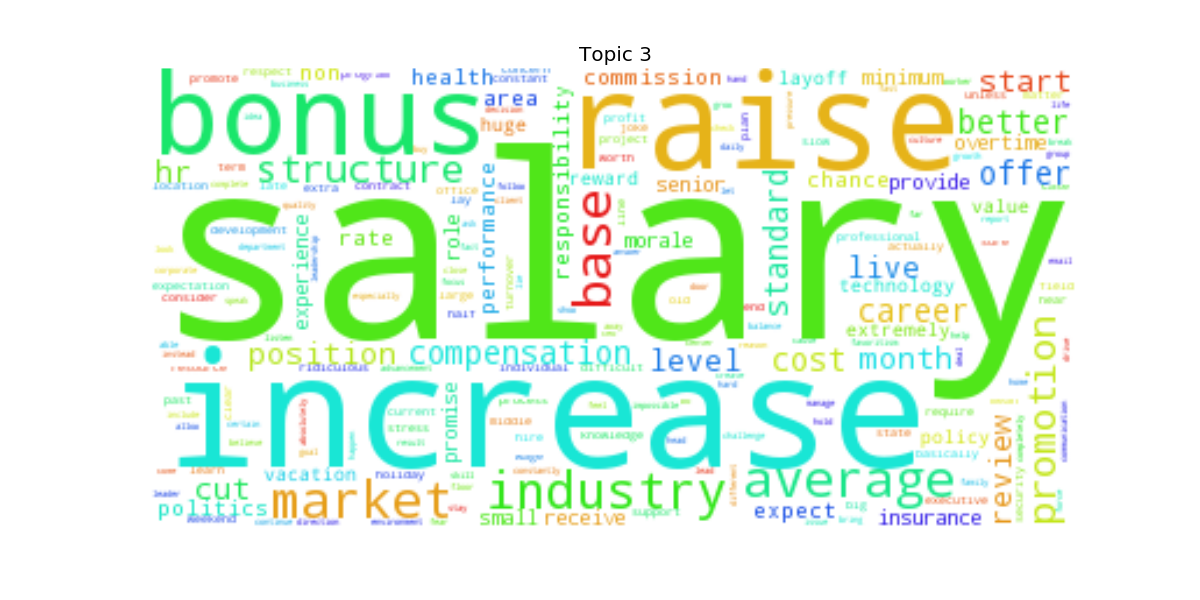
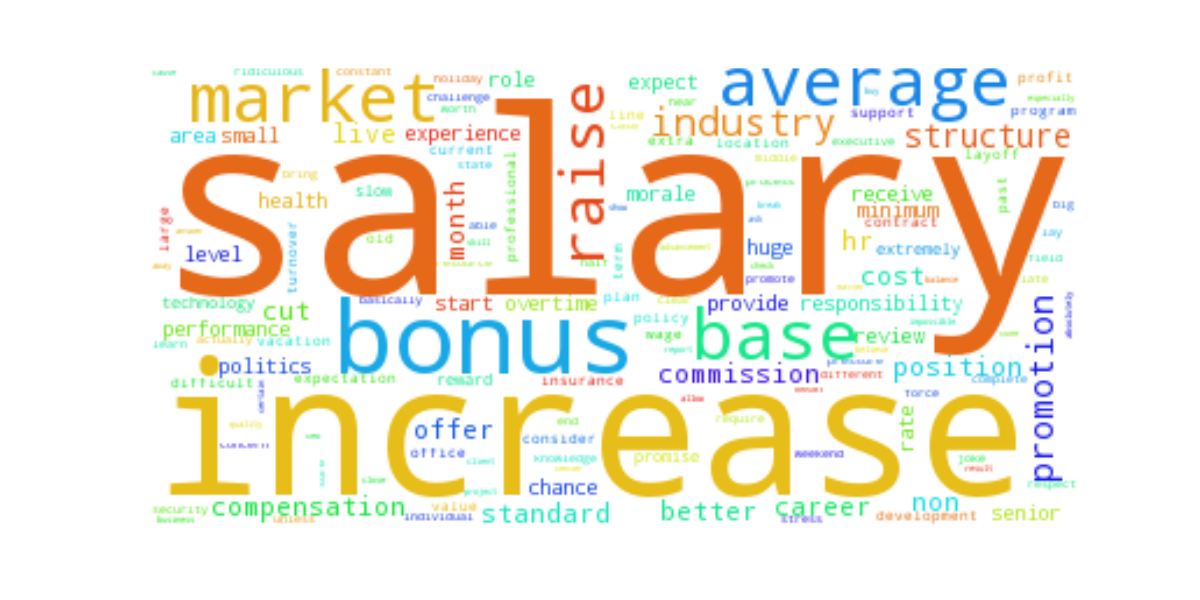
update topic_modeling and get some new clouds

diff --git a/topic_modeling.py b/topic_modeling.py
@@ -24,7 +24,8 @@ def stop_words():
 
 class NMFCluster(object):
 
-    def __init__(self, num_topics, tfidf_max_features=5000, tfidf_max_df=0.9, tfidf_min_df=1000, nmf_alpha=0.1, nmf_l1_ratio=0.25, random_state=None):
+    def __init__(self, pro_or_con, num_topics, tfidf_max_features=5000, tfidf_max_df=0.9, tfidf_min_df=1000, nmf_alpha=0.1, nmf_l1_ratio=0.25, random_state=None):
+        self.pro_or_con = pro_or_con
         self.num_topics = int(num_topics)
         self.tfidf_max_features = tfidf_max_features
         self.tfidf_max_df = tfidf_max_df
@@ -93,18 +94,16 @@ class NMFCluster(object):
         wc.fit_words(word_freq)
         fig = plt.figure(figsize=(12,6))
         ax = fig.add_subplot(111)
-        ax.set_title('Topic {}'.format(topic_idx))
         ax.axis('off')
         ax.imshow(wc)
-        plt.imshow(wc)
         plt.show()
 
 
     def visualize_topics(self, df):
         for i in range(self.num_topics):
             self.print_topic_summary(df, i)
-            print ''
             self.plot_topic(i)
+            print ''
 
 
 if __name__ == '__main__':
@@ -112,8 +111,8 @@ if __name__ == '__main__':
     cons_df = pd.read_pickle(os.path.join('data', 'cons_df.pkl'))
 
     topics = 10
-    nmf_pros = NMFCluster(topics)
-    nmf_cons = NMFCluster(topics)
+    nmf_pros = NMFCluster('pro', topics, random_state=42)
+    nmf_cons = NMFCluster('con', topics, random_state=42)
     nmf_pros.fit_nmf(pros_df)
     nmf_cons.fit_nmf(cons_df)
 
